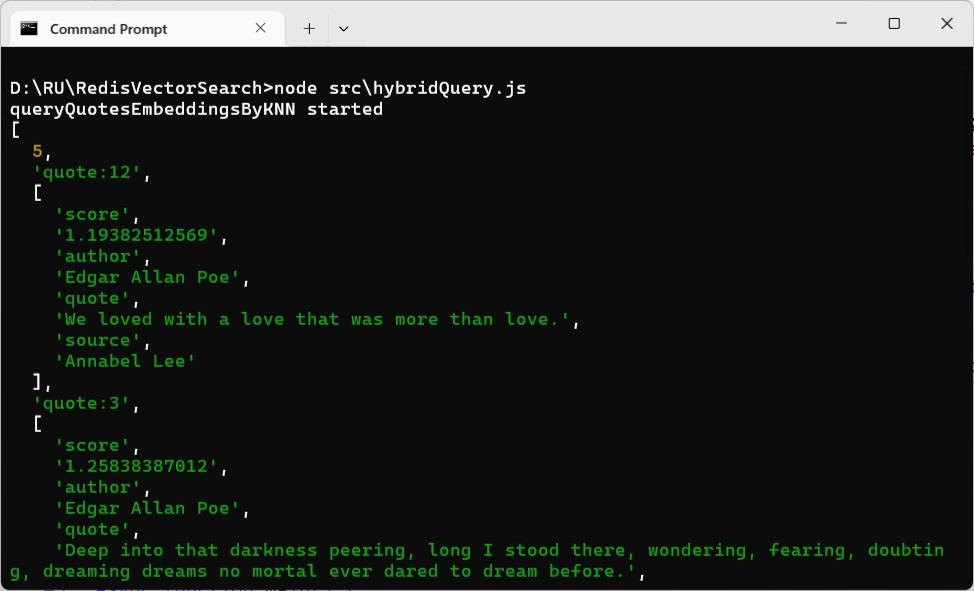
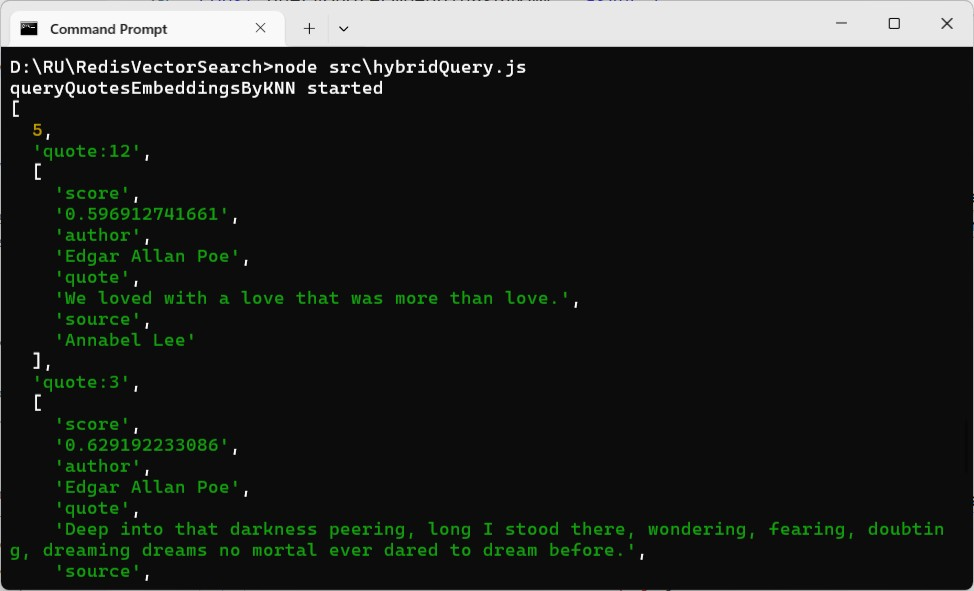
some code fix

Changed region(s): [[0.0, 0.0914, 0.9856, 1.0]]

diff --git a/src/hybridQuery.js b/src/hybridQuery.js
@@ -27,7 +27,7 @@ const queryQuoteEmbeddingsByKNN = async (
     if (_searchTxt) {
       _resultCount = _resultCount ?? 5;
       const searchTxtVectorArr = await generateSentenceEmbeddings(_searchTxt);
-      const searchQuery = `(@author:${_author})=>[KNN ${_resultCount} @embeddings $searchBlob AS score]`;
+      const searchQuery = `(@author:{${_author}})=>[KNN ${_resultCount} @embeddings $searchBlob AS score]`;
   
       results = await redisClient.call('FT.SEARCH', 
                                        'idx:quotes', 
@@ -45,7 +45,7 @@ const queryQuoteEmbeddingsByKNN = async (
   };
 
 async function main() {
-  const results = await queryQuoteEmbeddingsByKNN('poe', 'dream love death')
+  const results = await queryQuoteEmbeddingsByKNN('Edgar Allan Poe', 'dream love death')
   console.log(results)
   await disconnect()
 }

diff --git a/src/knnQuery.js b/src/knnQuery.js
@@ -32,7 +32,7 @@ const queryQuoteEmbeddingsByKNN = async (
                                        'idx:quotes', 
                                        searchQuery, 
                                        'RETURN', 4, 'score', 'author', 'quote', 'source', 
-                                       'SORTBY', 'score', 
+                                       'SORTBY', 'score', 'ASC', 
                                        'PARAMS', 2, 'searchBlob', 
                                                     float32Buffer(searchTxtVectorArr), 
                                        'DIALECT', 2);

diff --git a/README.md b/README.md
@@ -474,16 +474,62 @@ To create an index for our quotes database:
 ```
 FT.CREATE idx:quotes ON JSON PREFIX 1 quote:
   SCHEMA
-  $.author as author TEXT NOSTEM SORTABLE
-  $.quote as quote TEXT NOSTEM SORTABLE
-  $.source as source TEXT NOSTEM SORTABLE
-  $.embeddings as embeddings VECTOR FLAT 10
+  $.author as author TAG SORTABLE
+  $.quote as quote TEXT 
+  $.source as source TAG SORTABLE
+  $.embeddings as embeddings VECTOR FLAT 6
           TYPE FLOAT32
           DIM 768
-          DISTANCE_METRIC L2
-          INITIAL_CAP 111
-          BLOCK_SIZE  111
+          DISTANCE_METRIC COSINE
 ```
+
+For now, play around with the index we've just created: 
+```
+> FT.SEARCH idx:quotes * LIMIT 0 0
+1) "245"
+```
+This is equivalent to
+```
+SELECT count(*) FROM quotes
+```
+
+```
+> FT.AGGREGATE idx:quotes * GROUPBY 1 @author REDUCE COUNT 0 AS count SORTBY 2 @author ASC 
+1) "6"
+2) 1) "author"
+   2) "Agatha Christie"
+   3) "count"
+   4) "40"
+3) 1) "author"
+   2) "Charles Dickens"
+   3) "count"
+   4) "41"
+4) 1) "author"
+   2) "Edgar Allan Poe"
+   3) "count"
+   4) "42"
+5) 1) "author"
+   2) "Fyodor Dostoevsky"
+   3) "count"
+   4) "41"
+6) 1) "author"
+   2) "George Orwell"
+   3) "count"
+   4) "40"
+7) 1) "author"
+   2) "Oscar Wilde"
+   3) "count"
+   4) "41"
+```
+This is equivalent to
+```
+SELECT author, count(*) 
+FROM quotes 
+GROUP BY author
+ORDER BY author
+```
+
+That's funny! Is it not? 
 
 > When storing a vector embedding within a JSON document, the embedding is stored as a JSON array. In the example above, the array was shortened considerably for the sake of readability.
 
@@ -667,4 +713,4 @@ main()
 ```
 
 
-### EOF (2025/02/17)
+### EOF (2025/02/22)
